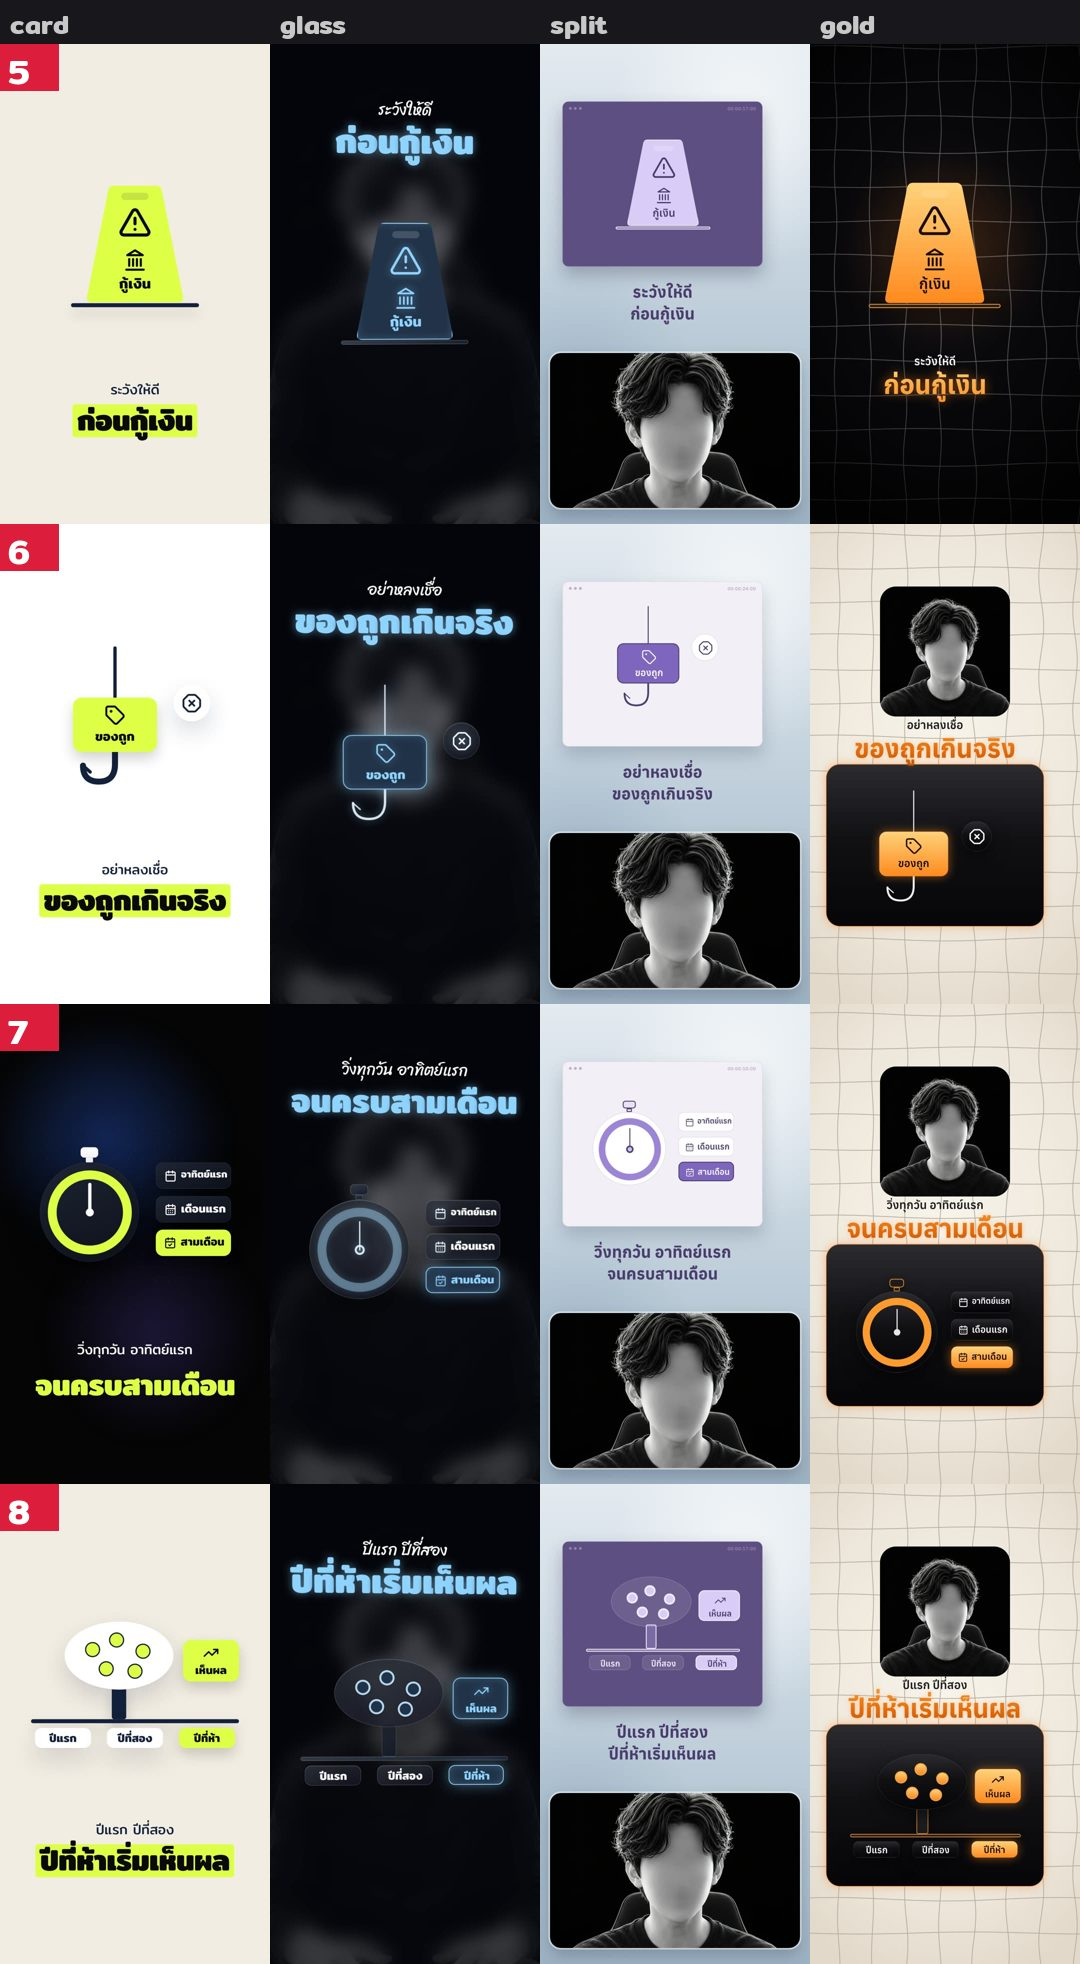
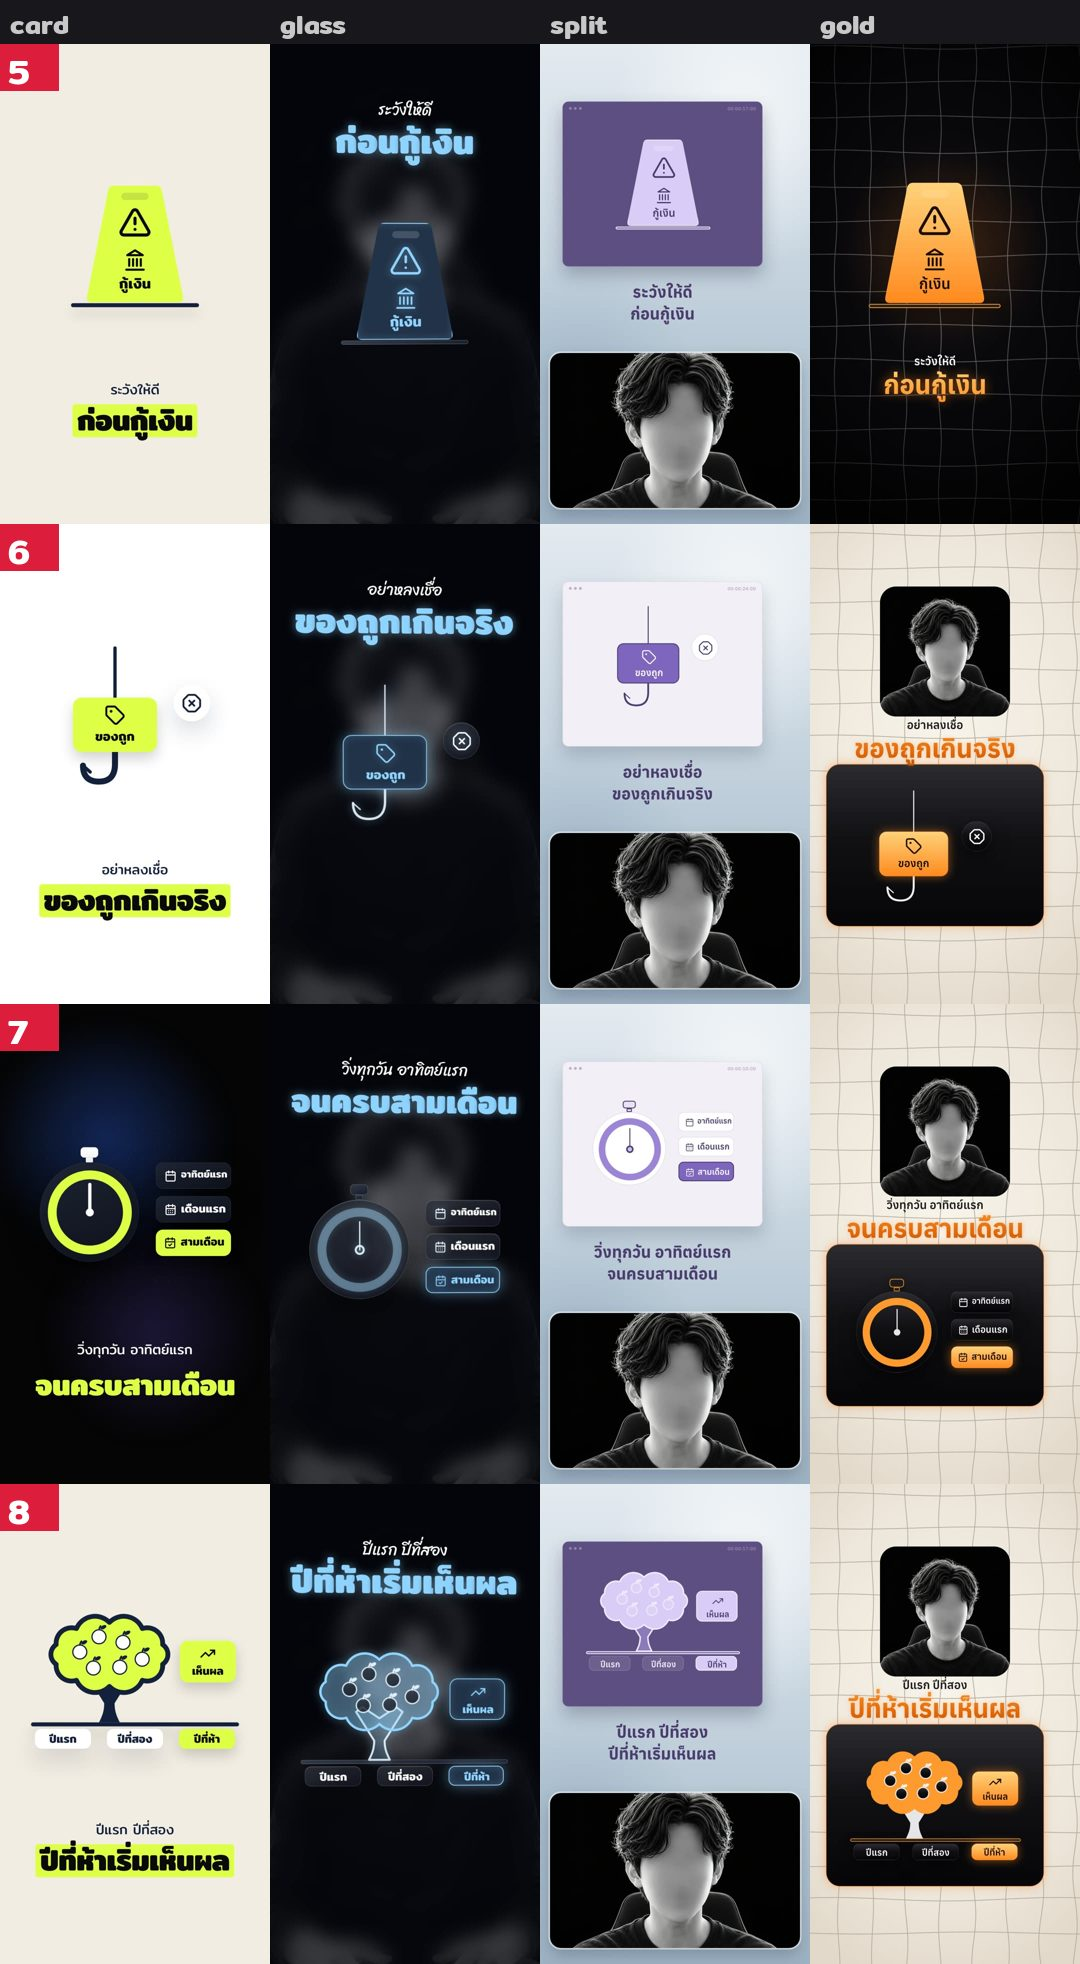
Round 10 stills: redraw the tree, the seat and the toolbox so they read as the real things
Friend: the tree did not look like a tree. It now has a bumpy crown, a
trunk that forks, and fruit with stems. The same check found the seat and
the toolbox hard to read, so those are redrawn too. New lesson 45.

Claude-Session: https://claude.ai/code/session_014abtgu7QfzJRsiTAHFd39E

diff --git a/cutpack/DECISIONS.md b/cutpack/DECISIONS.md
@@ -182,6 +182,7 @@
 - **คนในร่างใช้ได้ "ไม่เอาคนเลย" ใช้แค่กับไอเดียเติมรอบที่ 9 (Friend 2026-11-11: "ผมไม่ได้หมายถึงว่าจะไม่เอาคนแต่หมายถึงว่าการเสนอไอเดียในรอบที่ 9 อ่ะผมไม่เอาคน"):** แชทก่อนจดคำนี้เป็นรสนิยมถาวร ("ไม่ชอบตัวคน") ซึ่งผิด → รอบต่อไปเสนอไอเดียที่มีคน (คนก้านไม้ขีด เงาคน ไอคอนคน) ได้ ถ้าคนช่วยให้ภาพสื่อหมวดนั้น ใช้หลักเดิมทุกข้อ (ของหลัก 1 ชิ้น สื่อตรง ไม่เปรียบเปรยไกล) · กฎหน้าตารอบที่ 9 ข้อ 5 ("ไม่ใช้วงกลมไอคอนคน") ก็เป็นกฎของรอบที่ 9 เท่านั้น
 - **รอบที่ 10 เริ่มแล้ว (Friend 2026-11-11: "เริ่มรอบ 10 เลย ทำรูปออกมาให้ดูก่อนนะอยากเห็นของทุกสไตล์เลยอ่ะทั้ง 4 สไตล์"):** 10 หมวด หมวดละ 2 ร่าง: B04 ขั้นตอน (ร่างน้อยสุด) + หมวดที่มี 6 ร่างและเจอบ่อยในบท 26 คลิป B12 เหตุกับผล · B06 คำถาม · B07 คำเตือน · B17 ไล่รายการ · B18 เล่าเหตุการณ์ · B10 คน · B19 ความรู้สึก · B09 เวลา · หมวดสุดท้าย Friend ไม่ได้เลือก Claude เลือก **B16 นิยาม** (นิยาม ความสัมพันธ์ สถานที่ เจอ 8 ช่วงเท่ากัน แต่นิยามกระจายใน 7 คลิป มากกว่าอีกสองหมวด) · ภาพนิ่งต้องทำครบ 4 สไตล์ (card glass split gold) ให้ Friend ดูก่อนทำการเคลื่อนไหว
   - **ภาพนิ่งรอบที่ 10 ส่งแล้ว รอ Friend เลือก (2026-11-11):** 20 ร่าง × 4 สไตล์ (`engine/uni/sketches/r10.js`, แผ่น `library/uni-test/round10_sketches_1.jpg` … `_5.jpg`) ไอเดีย: ขั้นตอน = ตัวต่อซ้อนเป็นตึก (`tower`) · เบี้ยบนกระดานเกม (`board`) / คำถาม = โพลในสตอรี่ (`poll`, ต้องมี options 2 ตัว) · หลอดไฟมี ? (`bulb`) / คำเตือน = ป้ายระวังพื้นลื่น (`wetfloor`) · เหยื่อบนเบ็ดตกปลา (`hook`) / เวลา = นาฬิกาจับเวลา (`stopwatch`) · ต้นไม้จนออกผล (`tree`) / คน = เก้าอี้มีป้ายจอง (`seat`) · กล่องพัสดุจ่าหน้า (`parcel`) / เหตุกับผล = ก้อนหิมะกลิ้งลงเนิน (`snowball`) · ลูกพูลชนลงหลุม (`pool`) / นิยาม = บัตรคำร้อยห่วง (`flash`) · เครื่องพิมพ์ฉลาก (`labeler`) / ไล่รายการ = โฟลเดอร์แอป (`folder`) · กล่องเครื่องมือถาดกาง (`toolbox`) / เล่าเหตุการณ์ = ม่านเวที (`curtain`) · วิดีโอย้อนกลับ (`rewind`) / ความรู้สึก = ตัวคนเติมสี (`fill`) · แถบเลื่อนอารมณ์ (`slider`) · ตารางที่ส่ง Friend ก่อนทำภาพมี "กับดักหนู" Claude เปลี่ยนเป็นเบ็ดตกปลาเพราะภาพนิ่งของกับดักมองไม่ออก (บอก Friend แล้ว)
+  - **ต้นไม้ (B09 `tree`) Friend 2026-11-11: "ต้นไม้มันไม่เหมือนต้นไม้เลย ตั้งใจทำหน่อย"** → วาดใหม่แล้ว: พุ่มใบหยักสีเน้น ลำต้นโคนบานแตกกิ่ง ผลกลมมีขั้วกับใบ · Claude ตรวจร่างอื่นด้วยวิธีเดียวกัน (ปิดชื่อแล้วดูว่าเห็นเป็นอะไร) เจออีก 2 ร่างที่ดูไม่ออก วาดใหม่ด้วย: เก้าอี้ (`seat`) เป็นเก้าอี้โรงหนังมีพนักพิง เบาะ ที่วางแขน · กล่องเครื่องมือ (`toolbox`) มีหูหิ้ว แขนถาดคู่ขนานกับหมุด · ส่งแผ่น 2 3 4 ใหม่ให้ Friend ดู รอคำตอบ (LESSONS 45)
 - **B14 ประโยคเด็ดมีภาพด้วย (Friend 2026-11-08: "ทำ B14 แบบมี motion graphics ในเลโก้เลยครับ"):** เดิมระบบเลโก้ตั้งให้ B14 เป็นตัวหนังสือล้วน (Claude ตั้งเอง ไม่ได้มาจาก Friend) ตอนนี้มีร่างเหมือนหมวดอื่น ใบประกอบช่องเดียว `idea {icon, label?}` (ใจความที่อยากให้จำ ป้าย 1–2 คำ) ประโยคอยู่ในซับเท่านั้น
 - **กฎการจัดวางและจังหวะของร่าง (Friend 2026-11-08 หลังดูรอบที่ 3):** ใช้กับทุกร่างต่อจากนี้ (1) ของที่เชื่อมสองสิ่ง (จุดความคิด เส้น ลูกศร) ต้องอยู่บนแนวตรงระหว่างสองสิ่งนั้นพอดี "ไอคอนมันต้องตรงกับจุดสิ" (2) แสง วงกระเพื่อม และคำ ที่เป็นของสิ่งที่กำลังเคลื่อน ต้องขึ้นหลังสิ่งนั้นมาถึงที่แล้ว "วงกลมขึ้นมาก่อนที่ไอคอนจะเลื่อนขึ้นไปได้ไง" (3) เครื่องหมายระหว่างสองสิ่ง (=, →) อยู่กึ่งกลางช่องว่างระหว่างสองสิ่ง (4) คำใต้ไอคอนอยู่กึ่งกลางไอคอน และคำของของในแถวเดียวกันอยู่บรรทัดเดียวกัน (คำกึ่งกลางใน kit ใช้กล่องกว้างจัดกลาง ไม่ใช้ transform ที่ท่าเข้าเขียนทับ) (5) คลื่นหรือวงกระเพื่อมรอบของชิ้นไหน ต้องเป็นทรงเดียวกับชิ้นนั้น (การ์ดสี่เหลี่ยมมุมมนก็เป็นสี่เหลี่ยมมุมมน ปุ่มก็ทรงปุ่ม ของกลมก็วงกลม) ออกจากขอบของชิ้นนั้นจากด้านหลัง ไม่ผ่านไอคอนหรือคำ และพุ่งออกเร็วแล้วจาง (Friend: "Effect วงกลมมันแปลกๆอะ" กับวงกลมที่วิ่งผ่านการ์ดพลิก) ใช้ `R1.ripple` วงกลม `R1.pulse` ใช้เฉพาะแรงกระแทกที่ไม่ใช่ของชิ้นไหน (โดมิโนล้มถึงพื้น ตราประทับลง แสงไฟเตือน) (6) ไอคอนที่เปลี่ยนเป็นสีเน้น (ติดไฟ) ต้องเห็นไอคอนตลอด ไม่จางไขว้จนไอคอนกลืนกับพื้น ใช้ `LG.lightUp` (การ์ดทึบโผล่กลางแล้วขยายทับ) ในร่างใหม่ทุกร่าง ร่างเก่าที่ใช้ `LG.light` คงไว้ (Friend 2026-11-08: ร่างเก่า "ตามนุษย์มองแทบไม่ทันครับ" แต่ "อันต่อๆไปที่จะทำในอนาคตก็แก้ปัญหานี้ด้วยนะ") (7) ของที่ซ้อนแทนของเดิม (ไอคอนติดไฟ คำตอบแทนฟองคำถาม) ต้องอยู่ตำแหน่งเดียวกัน ขนาดเดียวกัน และขยับพร้อมกันพอดี ของเดิมต้องไม่โผล่เป็นขอบ ถ้าของล่างลอยขึ้นลง ของบนต้องลอยเหมือนกัน หรือเอาของล่างออกเมื่อถูกบังหมดแล้ว (Friend 2026-11-08: "ไอคอนมันเหลื่อมๆนิดนึงเหมือนมันทิ้งขอบสีขาวไว้") (8) สัญลักษณ์สีแดง (ตราห้าม ป้ายเตือน กากบาท) ต้องไม่อยู่บนของที่เป็นสีแดง ของต้องเป็นสีปกติของร่าง ให้สัญลักษณ์เป็นสีแดงอย่างเดียว (Friend 2026-11-08: "สัญลักษณ์มันเป็นสีเดียวกับไอคอนซึ่งมันจะทำให้ไม่สวย") โค้ด: `calm()` ใน `scenes/cats.js` เปลี่ยนโทนแดงที่ AI ใส่ให้ของเป็นสีปกติ (`main`) ในหมวดที่ร่างมีสัญลักษณ์แดง (B03 B04 B07) (10) สีของทุกชิ้นต้องไม่กลืนกับพื้นข้างหลัง สีเดียวกันหรือคล้ายกันจนมองยากก็ไม่ได้ (Friend 2026-11-08: "ตอนออกแบบให้ดูเรื่องสีด้วยอย่าให้มันกลืนกัน สีที่มันคล้ายๆกันแล้วทำให้มองยากก็ไม่ได้เหมือนกัน") ตรวจด้วย `check_contrast.js` (11) ของโปร่งแสงที่ต่อกัน (ถนนที่ตัดกัน) ต้องเป็นเนื้อเดียว ไม่เห็นรอยซ้อน (Friend 2026-11-10: "ไม่อยากให้เห็นความทับซ้อนของเส้นถนนอะ ทำให้มันเป็นเนื้อเดียวกันได้ไหม") (12) ของที่แบ่งเป็นสองส่วน (รูปฉีก) ไม่มีเศษของอีกส่วนติดมาที่รอยแบ่ง (Friend 2026-11-10: "มันมีขอบสีขาวๆ ติดมานิดนึง") (13) ร่างเดียวกันต้องหน้าตาเหมือนกันทุกสไตล์ ลวดลายที่หายไปในบางสไตล์ใช้ไม่ได้ (Friend 2026-11-10: "ทำไมตะกร้ามันไม่เหมือนอีก 2 สไตล์") (14) ของที่วางบนของอีกชิ้นต้องสีไม่กลืนกันในทุกสไตล์ (Friend 2026-11-10: "สีไอคอนกับตะกร้ามันกลืนกัน") (15) เส้นวาดครั้งเดียว ไม่มีเส้นขอบซ้อนกันหลายชั้น โดยเฉพาะสไตล์กระจก (Friend 2026-11-10: "สไตล์ 2 ดูเรื่องเส้นด้วย") (9) ตาชั่ง: ฝั่งที่ชนะเป็นสีเน้น ฝั่งที่แพ้เป็นสีปกติ เมื่อ AI ไม่ได้กำหนดสีเอง (Friend 2026-11-08: "แก้ตราชั่ง" เดิมฝั่งซ้ายเป็นสีเน้นเสมอ)
 - **สไตล์แบ่งจอ จังหวะคนพูดย่อลงกรอบล่าง (Friend 2026-11-08: "แก้ไขจังหวะที่คลิปย่อลงมาด้านล่างหน่อยครับ"):** กรอบวิ่งตามขอบวิดีโอที่กำลังย่อ (ไม่รอที่จุดสุดท้ายแล้วตัดผ่านหน้า), หน้าต่างกับซับขึ้นหลังหน้าคนพูดลงพ้นตำแหน่งของมันแล้ว และหายก่อนคนพูดขยายกลับ ห้ามมีของทับหน้าระหว่างย่อหรือขยาย (`styles/split.js`)

diff --git a/cutpack/LESSONS.md b/cutpack/LESSONS.md
@@ -95,6 +95,11 @@ Friend สั่งไว้ (2026-11-08): "จดข้อผิดพลาด
 - ต้นเหตุ: ตอนสรุปรสนิยมรวมคำตัดสินที่ Friend พูดกับงานชิ้นหนึ่ง เข้ากับคำที่ Friend พูดถึงทุกงาน โดยไม่ได้ถามว่าใช้กับทุกรอบไหม
 - กฎ: จดคำตัดสินพร้อมขอบเขตเสมอ (ใช้กับรอบไหน ร่างไหน) · ถ้าจะยกคำตัดสินเฉพาะงานขึ้นเป็นกฎถาวรหรือรสนิยม ต้องถาม Friend ก่อน 1 ประโยค
 
+**45. วาดของในชีวิตประจำวันเป็นรูปทรงง่ายเกินจนจำไม่ได้** (รอบที่ 10, 2026-11-11, Friend: "ต้นไม้มันไม่เหมือนต้นไม้เลย ตั้งใจทำหน่อย")
+- พลาด: ต้นไม้ในภาพนิ่งเป็นการ์ดวงรีสีขาววางบนแท่งสี่เหลี่ยม ดูเป็นลูกโป่งหรือป้าย ไม่ใช่ต้นไม้ Claude ดูเองแล้วตัดสินว่า "อ่านออกว่าเป็นต้นไม้" แล้วส่ง
+- ต้นเหตุ: ใช้ชิ้นที่มีอยู่แล้ว (การ์ด แท่ง) มาต่อกันให้เร็ว แทนที่จะวาดลักษณะเฉพาะที่ทำให้คนจำของนั้นได้ (ทรงพุ่มหยัก กิ่ง สีของใบ) และตัดสินด้วยสายตาตัวเองซึ่งรู้อยู่แล้วว่าตั้งใจวาดอะไร
+- กฎ: ของในชีวิตประจำวันต้องวาดลักษณะที่คนจำได้ทันทีอย่างน้อย 2 อย่าง (ต้นไม้ = พุ่มหยัก + ลำต้นมีกิ่ง · เก้าอี้ = พนักพิง + ขา 4 ขา) · ก่อนส่ง ดูภาพแบบคนที่ไม่รู้ว่าตั้งใจวาดอะไร: ปิดชื่อร่างแล้วถามว่าเห็นเป็นอะไร ถ้าตอบได้หลายอย่าง ให้วาดใหม่
+
 **31. เอาของจากระบบเดิมมาให้ดู โดยไม่บอกก่อนว่าระบบเลโก้ยังไม่มี** (แชท `ccr-a3217a00-7f7wp0`, 2026-11-08)
 - พลาด: Friend ขอดู B14 Claude ทำหน้าคลิป B14 ของ editorial เดิมให้ดู Friend ถามกลับว่า "ตอนนี้เราเปลี่ยนมาใช้ระบบเลโก้แล้วไม่ใช่หรอ"
 - ต้นเหตุ: ระบบเลโก้ไม่มี B14 จึงหยิบของเดิมมาแทน แต่ไม่ได้บอกให้ชัดก่อนลงมือ
